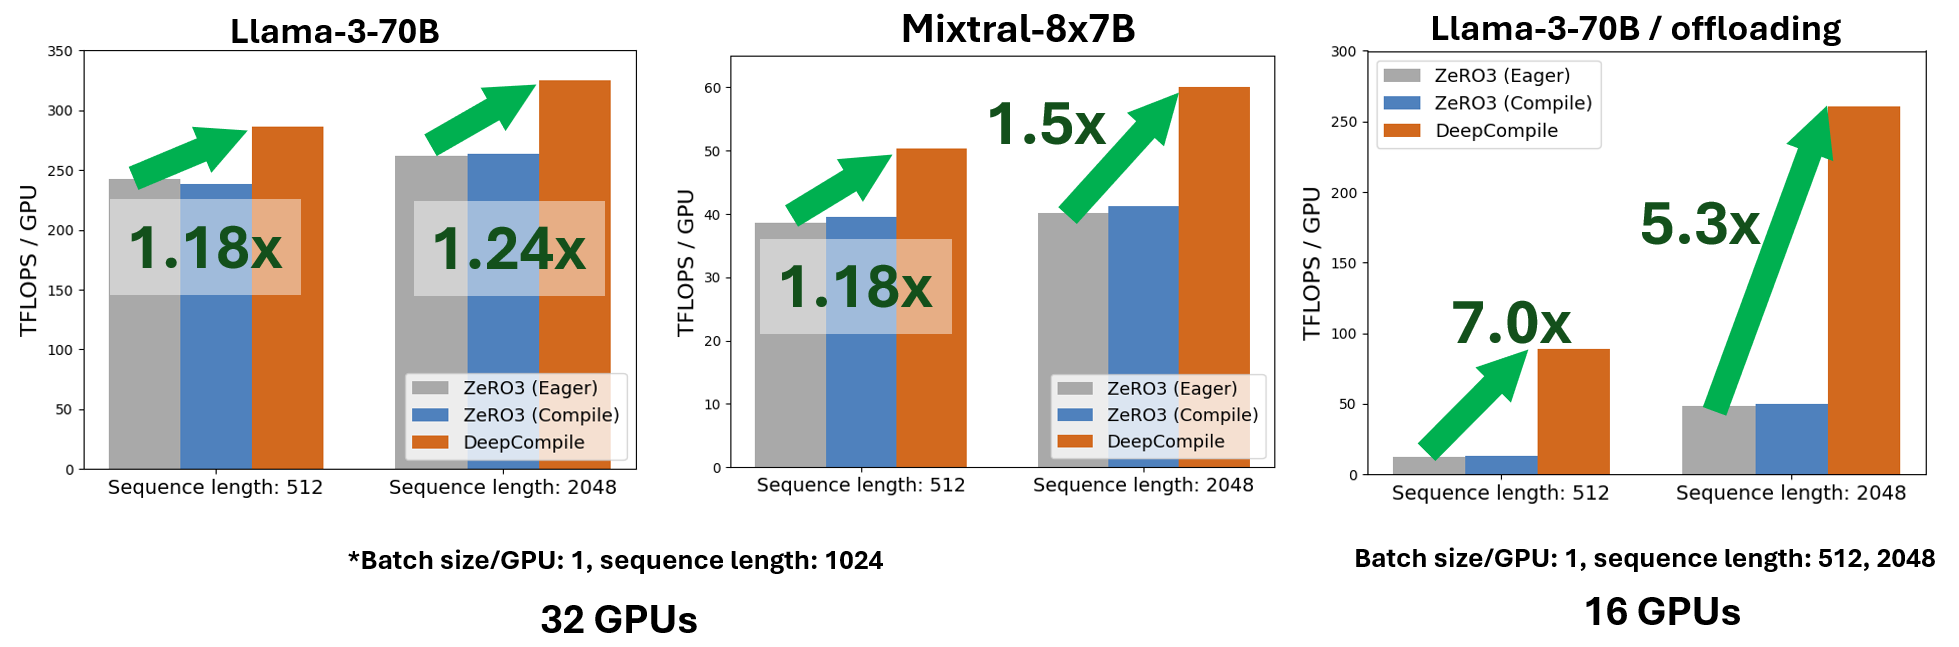
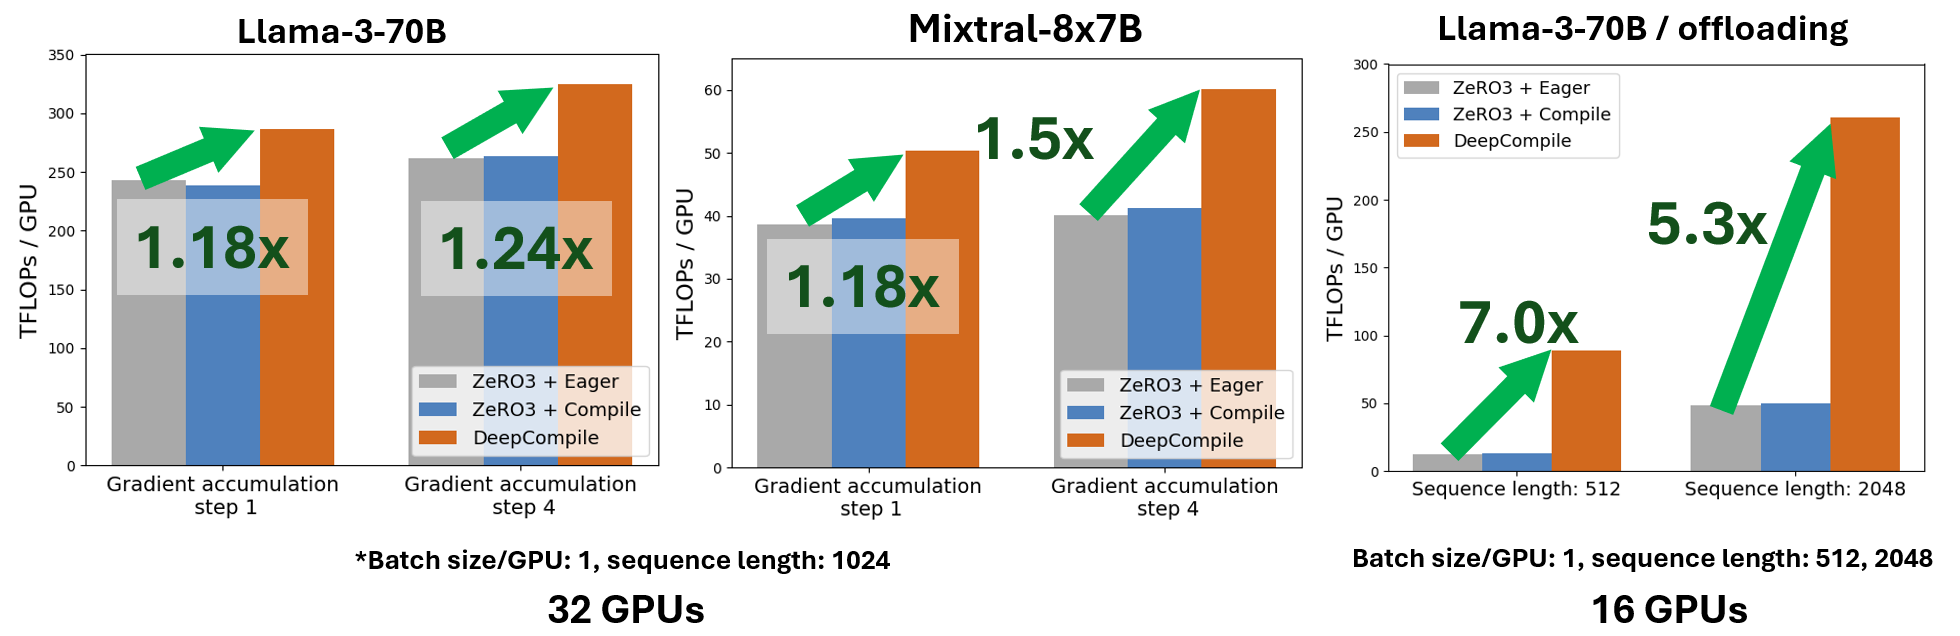
update labels in blog

diff --git a/blogs/deepcompile/README.md b/blogs/deepcompile/README.md
@@ -17,7 +17,7 @@ Existing distributed training frameworks such as DeepSpeed and FSDP have made la
 
 DeepCompile addresses this gap by enabling compiler-level optimizations for distributed training. It takes a standard single-GPU model implementation and transforms it into an optimized multi-GPU training graph without requiring changes to the model code. Unlike existing approaches, DeepCompile automatically applies parameter sharding, communication scheduling, and memory-aware execution at the compiler IR level, enabling global analysis and optimization that are difficult to express in traditional frameworks. Furthermore, during training, DeepCompile employs profile-guided optimization techniques to dynamically tune these parallelization strategies and improve training performance.
 
-Our evaluation demonstrates that DeepCompile improves training performance over ZeRO-3 baselines, achieving up to 1.5x speedup when sufficient GPU resources are available, and up to 7x speedup in GPU-constrained settings that require offloading. 
+Our evaluation demonstrates that DeepCompile improves training performance over ZeRO-3 baselines, achieving up to 1.5x speedup when sufficient GPU resources are available, and up to 7x speedup in GPU-constrained settings that require offloading.
 
 # Design Overview
 
@@ -81,7 +81,7 @@ DeepCompile implements ZeRO-1-style optimization by inserting reduce-scatter ope
 
 We evaluated DeepCompile on Llama-3-70B and Mixtral 8x7B using parameter sharding on top of Hugging Face model implementations.
 Figure 3 shows training throughput (TFLOPs/GPU) across different gradient accumulation steps, using 32 H100 GPUs with a sequence length of 1024.
-We compare DeepCompile against two DeepSpeed ZeRO-3 baselines: (i) an eager-mode version without compiler support (labelled ZeRO3 (Eager)), and (ii) a compiled version using PyTorch compiler (labelled ZeRO3 (Compile)). For DeepCompile, we enabled both proactive prefetching and selective unsharding to demonstrate the combined effect of these optimization passes.
+We compare DeepCompile against two DeepSpeed ZeRO-3 baselines: (i) an eager-mode version without compiler support (labelled ZeRO3+Eager), and (ii) a compiled version using PyTorch compiler (labelled ZeRO3+Compile). For DeepCompile, we enabled both proactive prefetching and selective unsharding to demonstrate the combined effect of these optimization passes.
 
 <div align="center"> <img src="media/perf_zero3.png" width="800">
 
@@ -90,7 +90,7 @@ We compare DeepCompile against two DeepSpeed ZeRO-3 baselines: (i) an eager-mode
 </div>
 Across both models, DeepCompile consistently delivers higher throughput. The benefit becomes more pronounced at higher accumulation steps, where the reduced frequency of parameter updates makes selective unsharding more effective. DeepCompile with proactive prefetching and selective unsharding achieves up to 1.28× speedup over ZeRO-3 on Llama-3-70B and 1.54× on Mixtral 8x7B.
 
-Meanwhile, enabling the PyTorch compiler with ZeRO-3, i.e., ZeRO3 (Compile) introduces minor overheads in some settings. This is because ZeRO-3 includes many conditional branches for runtime features such as prefetching. When the compiler encounters branches that cannot be statically resolved, it splits the computation into multiple graph segments. These fragmented segments can reduce optimization opportunities and introduce additional overheads during execution.
+Meanwhile, enabling the PyTorch compiler with ZeRO-3, i.e., ZeRO3+Compile introduces minor overheads in some settings. This is because ZeRO-3 includes many conditional branches for runtime features such as prefetching. When the compiler encounters branches that cannot be statically resolved, it splits the computation into multiple graph segments. These fragmented segments can reduce optimization opportunities and introduce additional overheads during execution.
 
 ## Offloading
 
@@ -110,11 +110,11 @@ We evaluated DeepCompile's offloading using Llama-3 70B on 16xH100-80GB (half th
 
 </div>
 
-We compare against two ZeRO-3 offloading baselines: (i) an eager-mode version without compiler support (ZeRO3 (Eager)), and (ii) a compiled version using PyTorch compiler (ZeRO3 (Compile)). As shown by the results, DeepCompile provides up to 7× speedup over ZeRO3 (Eager) in this resource-constrained setting. In contrast, we see that ZeRO3 (Compile) achieves similar performance as ZeRO3 (Eager). 
+We compare against two ZeRO-3 offloading baselines: (i) an eager-mode version without compiler support (ZeRO3+Eager), and (ii) a compiled version using PyTorch compiler (ZeRO3+Compile). As shown by the results, DeepCompile provides up to 7× speedup over ZeRO3+Eager in this resource-constrained setting. In contrast, we see that ZeRO3+Compile achieves similar performance as ZeRO3+Eager.
 
 ## ZeRO-1
 
-We also evaluated DeepCompile with ZeRO-1 using the Llama-3-8B model. We compare DeepCompile against two ZeRO-1 baselines: (i) an eager-mode version without compiler support (ZeRO1 (Eager)), and (ii) a compiled version using PyTorch compiler (ZeRO1 (Compile)). In our experiment with 8 GPUs and a batch size of 2, DeepCompile achieved consistent throughput improvements across different sequence lengths, as shown in Figure 5.
+We also evaluated DeepCompile with ZeRO-1 using the Llama-3-8B model. We compare DeepCompile against two ZeRO-1 baselines: (i) an eager-mode version without compiler support (ZeRO1+Eager), and (ii) a compiled version using PyTorch compiler (ZeRO1+Compile). In our experiment with 8 GPUs and a batch size of 2, DeepCompile achieved consistent throughput improvements across different sequence lengths, as shown in Figure 5.
 
 <div align="center">
 
@@ -124,7 +124,7 @@ We also evaluated DeepCompile with ZeRO-1 using the Llama-3-8B model. We compare
 
 </div>
 
-The most significant speedup was observed with batch size 1 and sequence length 512, where DeepCompile outperformed ZeRO1 (Eager) by up to 1.9×, and ZeRO1 (Compile) by up to 2.5×.
+The most significant speedup was observed with batch size 1 and sequence length 512, where DeepCompile outperformed ZeRO1+Eager by up to 1.9×, and ZeRO1+Compile by up to 2.5×.
 
 While compiler-based approaches can be effective for large batch sizes and long sequences by replacing suboptimal operations with more efficient kernels, they may also introduce overheads in ZeRO-1-style training in the form of *graph breaks* around the communication operations. These overheads become more pronounced with smaller batch sizes and sequence lengths, thus hurting performance compared to the non-compiled execution. In contrast, DeepCompile inserts communication operators directly into the computation graph during compilation, avoiding graph fragmentation and minimizing associated overhead. This makes DeepCompile more robust to small-scale workloads, while still benefiting from compiler-level optimizations.
 
